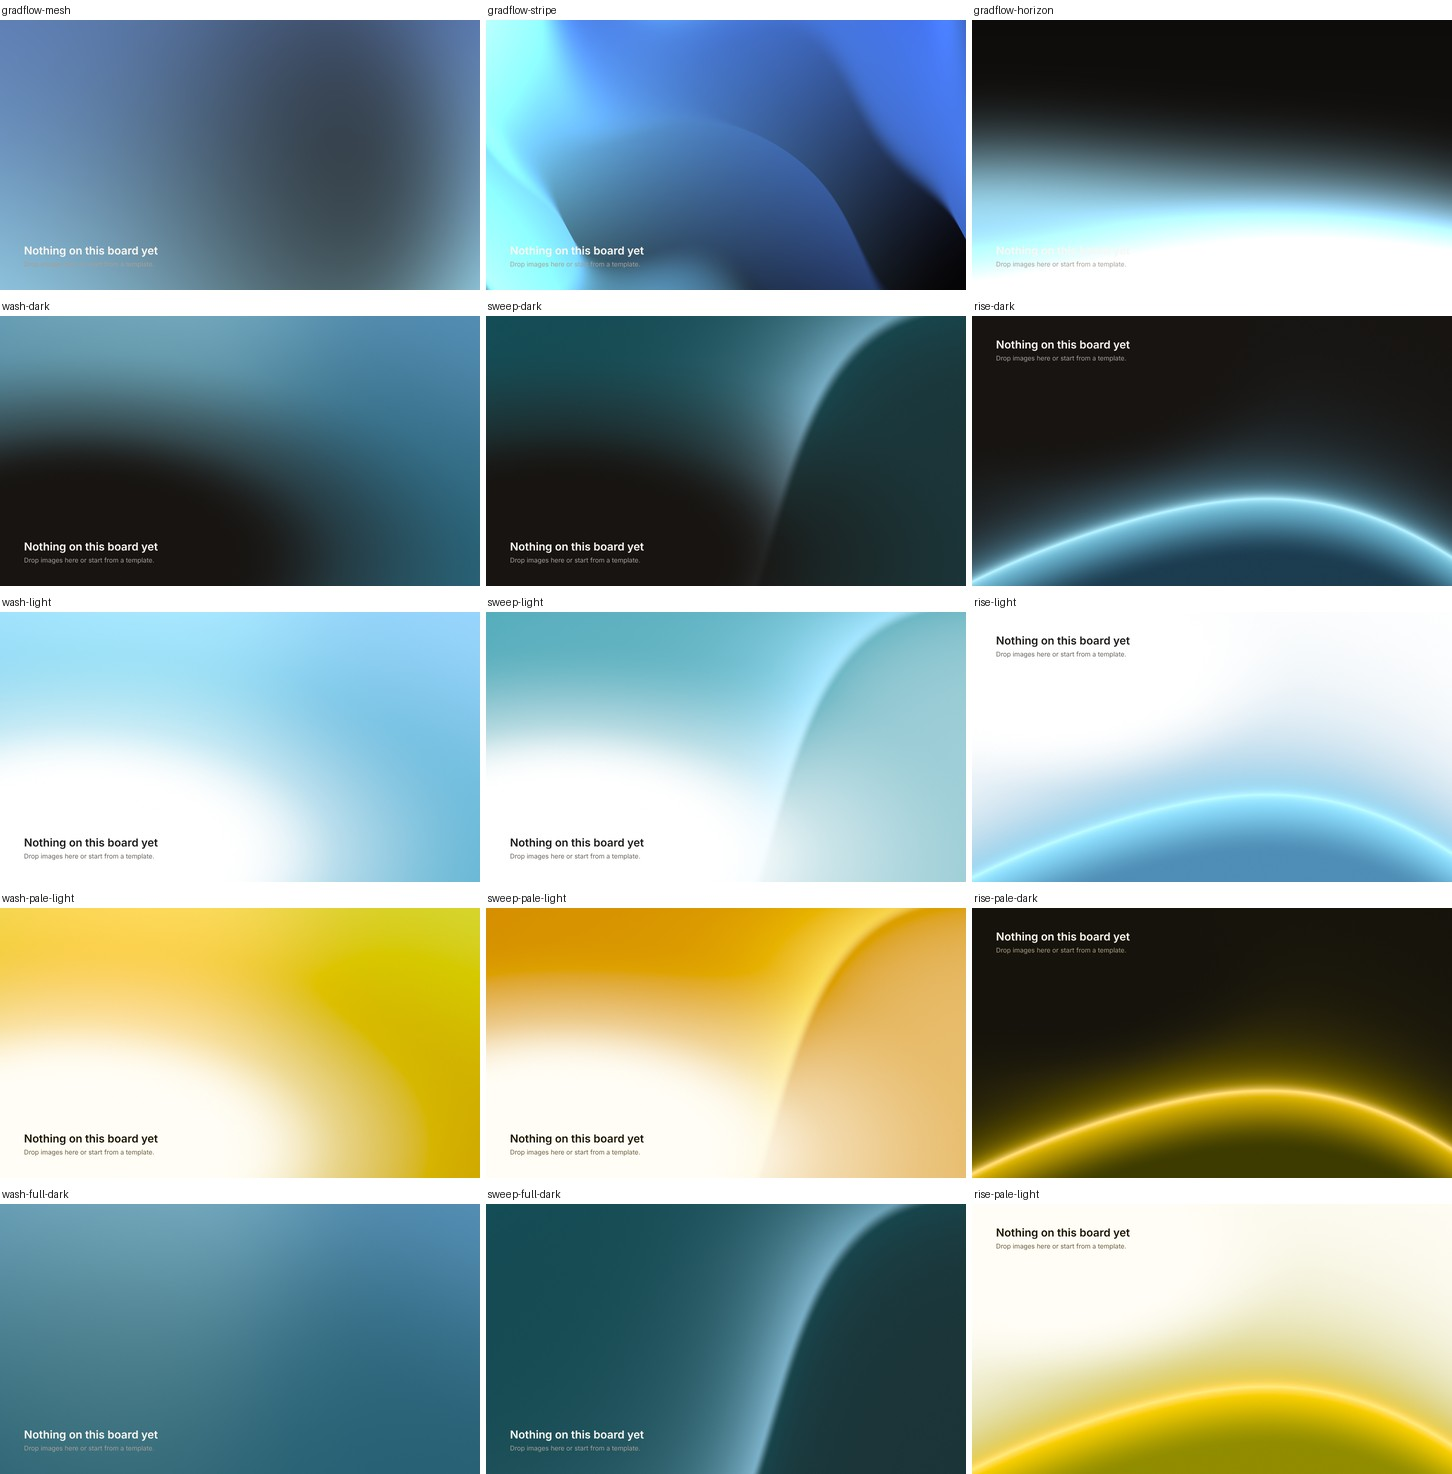
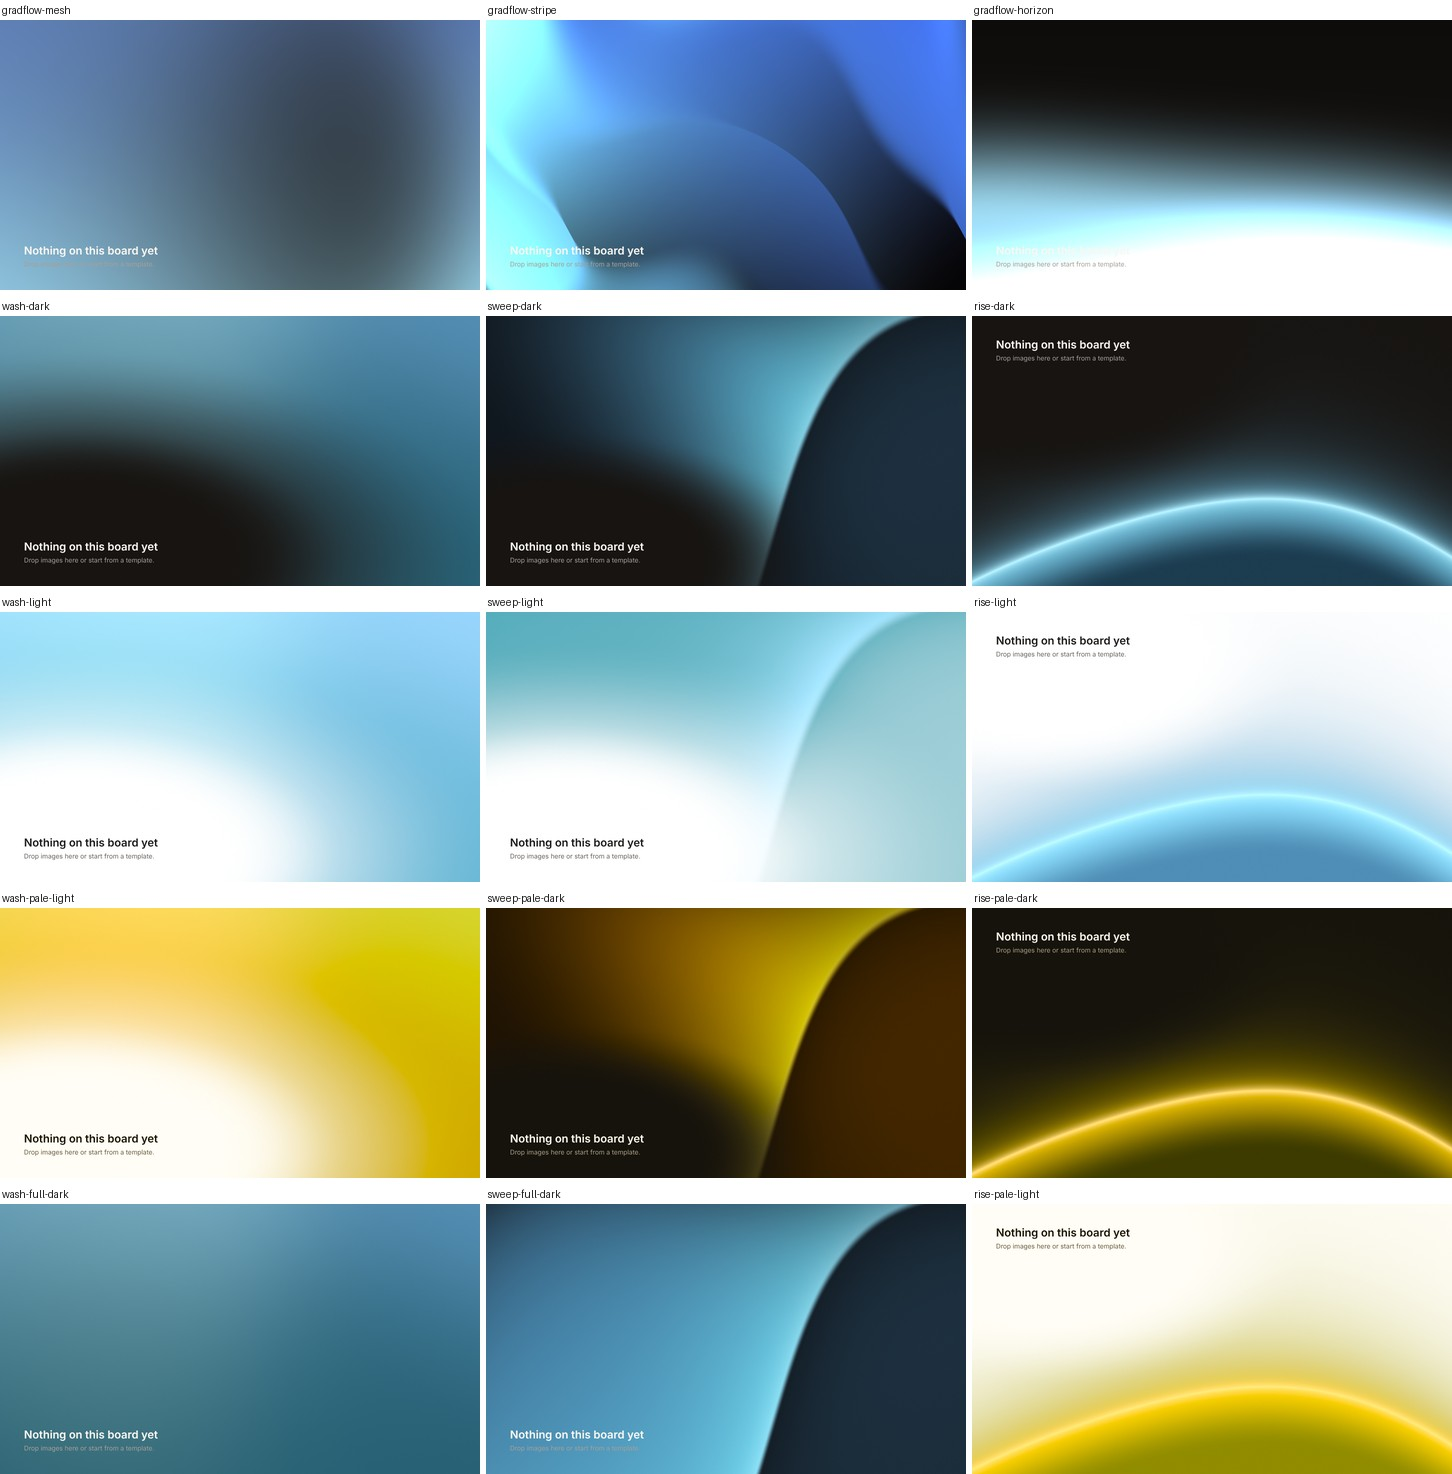
Lab: polish sweep's dark mode
The dark sweep read as grey-teal fog: the accent was mixed into the warm
near-black base, the forms had only a thin grey edge, and the shade
toward the copy was an ellipse cutting across the light. Dark mode now
has its own palette in the accent's hue family (near-neutral shadow,
saturated body, light, highlight), forms lit across the body with a
shadow cast in front of the edge, shadow hues turning away from
yellow-green (blue goes royal, yellow goes amber rather than olive),
and a diagonal light falloff toward the copy. Muted ink 6.96:1 (zero),
6.92:1 (pale yellow); widest band 13-16px. Light mode is unchanged.

Claude-Session: https://claude.ai/code/session_01AV4vmbX8TpB7phCvN83fpu

Changed region(s): [[0.3099, 0.5929, 0.6818, 1.0], [0.4339, 0.2185, 0.6818, 0.4057], [0.3099, 0.1872, 0.4029, 0.3121]]

diff --git a/docs/webgl-gradients.md b/docs/webgl-gradients.md
@@ -440,6 +440,15 @@ What the iterations taught:
   (`fx_falloff`), so the copy corner reads as the frame's shadow side.
 - **The horizon fits the system naturally.** Its light is low, so the copy
   goes top left, in the sky (quiet-y 0.18).
+- **Sweep's dark mode needed its own palette and its own light.** The
+  first version mixed the accent into the warm near-black base and read as
+  grey-teal fog. It now stays in the accent's hue family: near-neutral
+  shadow, saturated body, light, near-white highlight. Forms are lit across
+  the whole body and cast a shadow in front of their edge. Darker tones
+  turn their hue *away from yellow-green* (`fx_shadowTurn`), so a blue
+  accent's shadows go royal and a yellow's go amber, not olive. The shading
+  toward the copy is a straight diagonal of light (`fx_lightFrom`), not an
+  ellipse drawn around the text.
 - **Full frame is possible only with glass.** Without the zone, muted ink
   drops to 2.0–2.6:1. The copy then needs a glass pane, which ADR 0022
   makes legible over anything.
